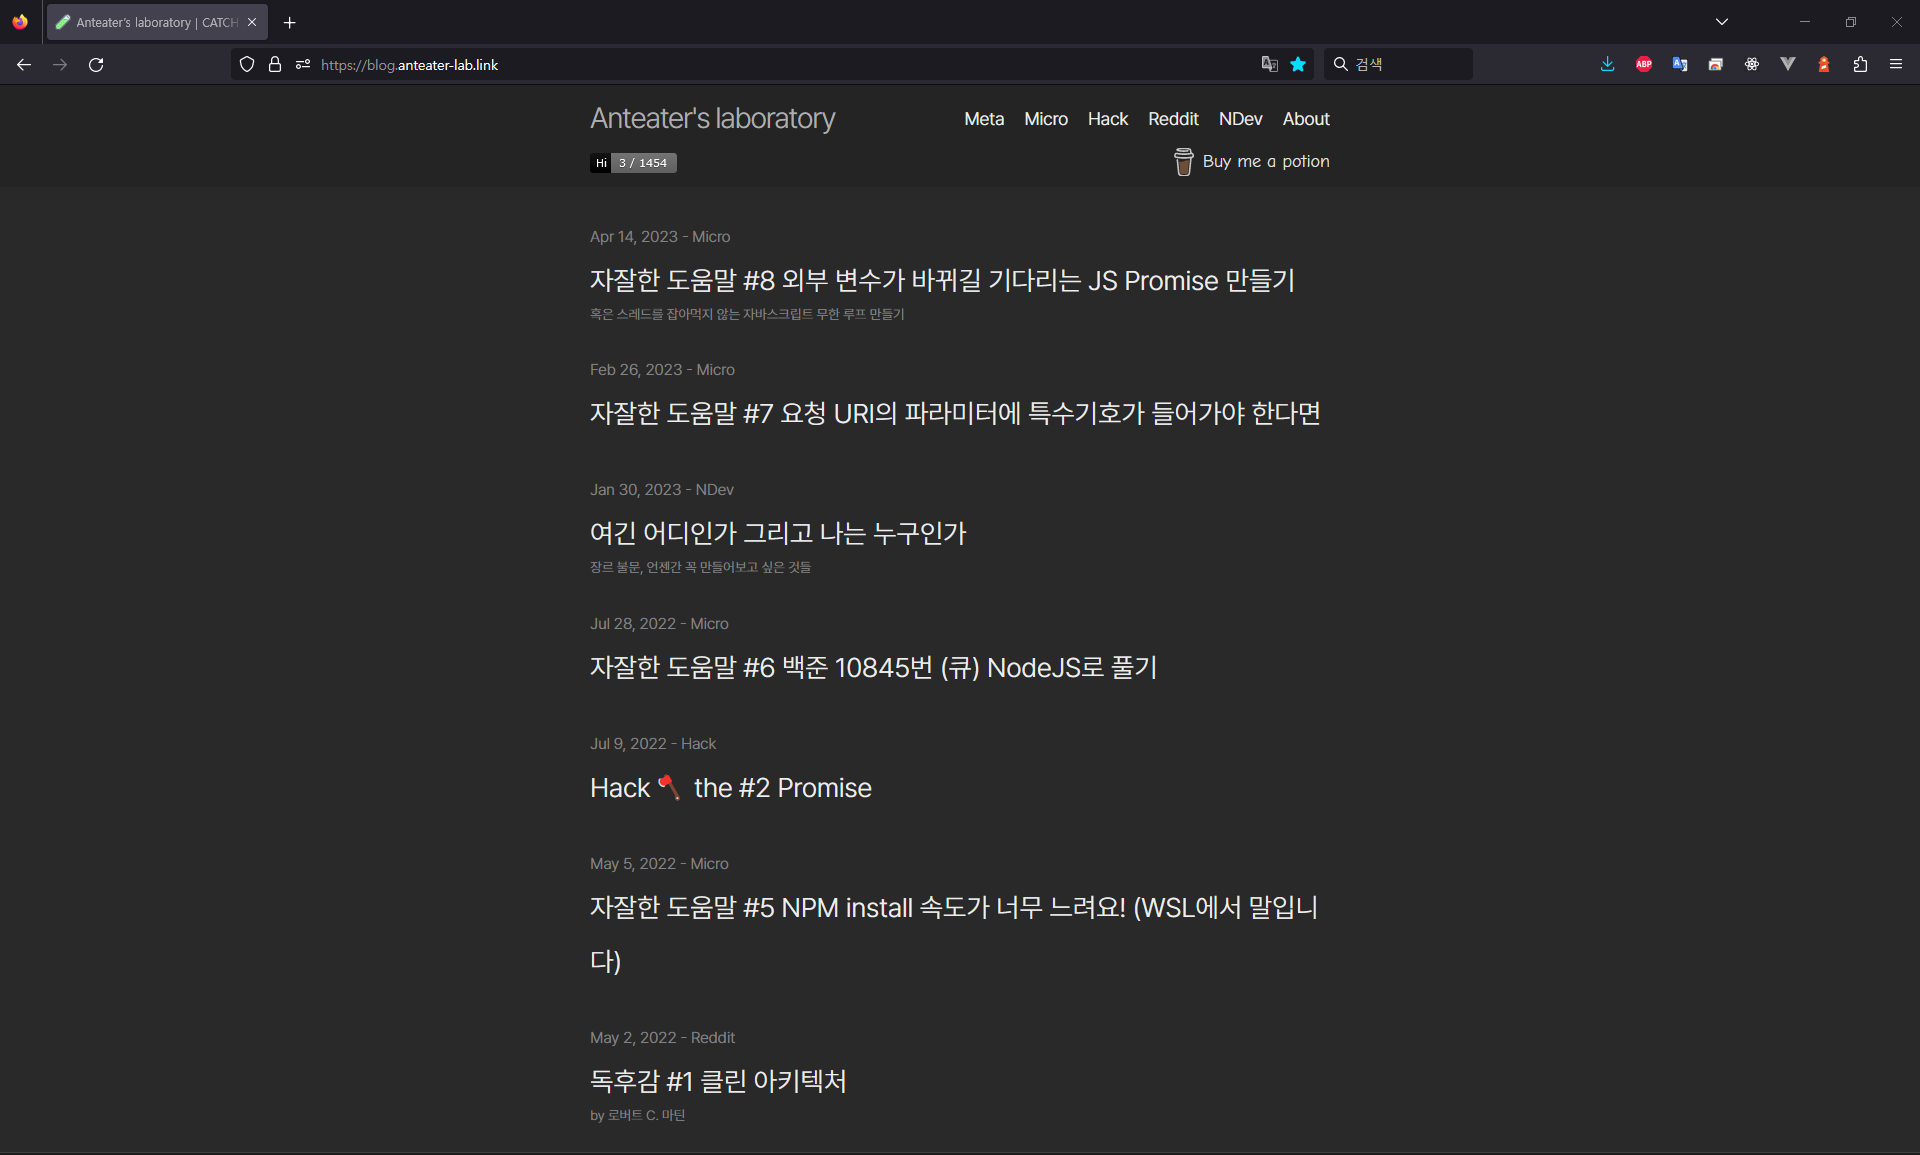
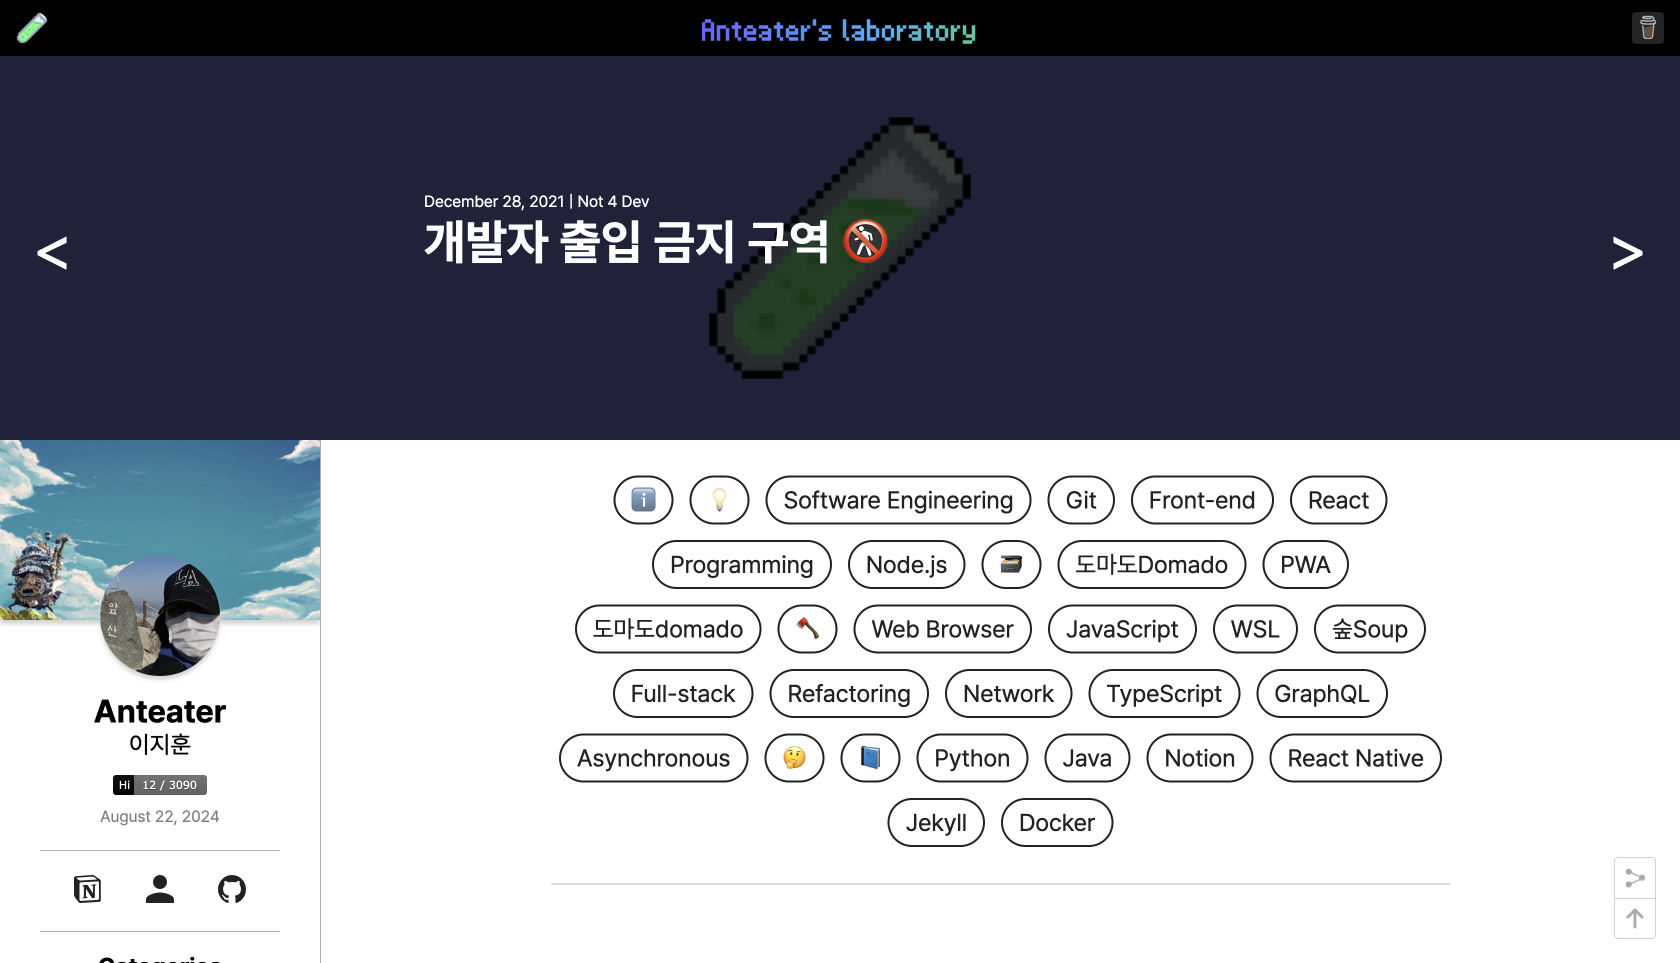
Data - 블로그 이전 관련 내용 추가

diff --git a/src/components/sections/WorksSection.tsx b/src/components/sections/WorksSection.tsx
@@ -59,6 +59,8 @@ import imgWorks02SS01 from "../../resources/images/works/screenshots/Ill01.png";
 import imgWorks03SS00 from "../../resources/images/works/screenshots/Lab00.png";
 import imgWorks03SS01 from "../../resources/images/works/screenshots/Lab01.png";
 import imgWorks03SS02 from "../../resources/images/works/screenshots/Lab02.png";
+import imgWorks03SS03 from "../../resources/images/works/screenshots/Lab03.png";
+import imgWorks03SS04 from "../../resources/images/works/screenshots/Lab04.png";
 import imgWorks04SS00 from "../../resources/images/works/screenshots/Monallog00.gif";
 import imgWorks05SS00 from "../../resources/images/works/screenshots/QUE00.png";
 import imgWorks05SS01 from "../../resources/images/works/screenshots/QUE01.png";
@@ -174,13 +176,19 @@ const worksArray: WorksItemType[] = [
   {
     workId: "Lab",
     url: "./3d/Lab.glb",
-    screenshots: [imgWorks03SS00, imgWorks03SS01, imgWorks03SS02],
+    screenshots: [
+      imgWorks03SS00,
+      imgWorks03SS01,
+      imgWorks03SS02,
+      imgWorks03SS03,
+      imgWorks03SS04,
+    ],
     logoImg: () => <></>,
     title: "Anteater's laboratory",
     smallTitle: true,
     description:
-      "Jekyll로 구축한 개인 기술 블로그입니다. 개발 중 사용했던 자잘한 해결책들, 독후감, 특정 용어에 대한 고찰, 프로젝트 회고 등 다양한 주제의 글을 작성하고 있습니다.",
-    year: "2021",
+      "개발 중 사용했던 자잘한 해결책들, 독후감, 특정 용어에 대한 고찰, 프로젝트 회고 등 다양한 주제의 글을 작성했습니다. 2021년 Jekyll을 기반으로 구축하였으며, 2024년 Next.js 프레임워크 기반으로 기술 스택을 이전, 블로그를 재구축했습니다.",
+    year: "2021, 2024",
     platform: "Web Service",
     summary: "기술 블로그",
     features: [
@@ -189,7 +197,15 @@ const worksArray: WorksItemType[] = [
       "Hack the terms🪓",
       "프로젝트 회고록 저장소🗃",
     ],
-    techStack: ["Jekyll", "Sass", "Vanilla JS", "Docker"],
+    techStack: [
+      "Next.js",
+      "React",
+      "Styled-components",
+      "Jekyll (2021)",
+      "Sass (2021)",
+      "Vanilla JS (2021)",
+      "Docker (2021)",
+    ],
     repoUrl: "https://github.com/anteater333/anteater333.github.io",
     site: "https://blog.anteater-lab.link/",
   },
@@ -698,7 +714,10 @@ function WorksSection({ updateLoadingProgress }: SectionProps) {
                 <div className="flex gap-4 xl:flex-col xl:gap-20">
                   <div className="mr-4 w-1/2 border-l-4 border-indigo-500 pl-4 xl:w-auto">
                     <h2 className="mb-2 text-xl font-bold xl:mb-4 xl:text-4xl">
-                      Features
+                      Features{" "}
+                      <span className="text-sm font-normal">
+                        ({selectedItem.features.length} items)
+                      </span>
                     </h2>
                     <ul className="works-spec-list h-40 max-w-lg list-disc overflow-scroll break-keep pl-8 text-lg xl:min-w-[16rem] xl:text-3xl [&>li]:mb-1 xl:[&>li]:mb-4">
                       {selectedItem.features.map((feat, idx) => (
@@ -708,7 +727,10 @@ function WorksSection({ updateLoadingProgress }: SectionProps) {
                   </div>
                   <div className="w-1/2 border-l-4 border-indigo-500 pl-4 xl:ml-0 xl:w-auto">
                     <h2 className="mb-2 text-xl font-bold xl:mb-4 xl:text-4xl">
-                      Tech Stack
+                      Tech Stack{" "}
+                      <span className="text-sm font-normal">
+                        ({selectedItem.techStack.length} items)
+                      </span>
                     </h2>
                     <ul className="works-spec-list h-40 max-w-lg list-disc overflow-scroll break-keep pl-8 text-lg xl:min-w-[16rem] xl:text-3xl [&>li]:mb-1 xl:[&>li]:mb-4">
                       {selectedItem.techStack.map((tech, idx) => (

diff --git a/src/components/sections/SkillsSection.tsx b/src/components/sections/SkillsSection.tsx
@@ -164,6 +164,7 @@ const skillsArray: {
       "데이터 시각화 라이브러리 ApexCharts.js 사용 경험 보유",
       "웹 성능 측정 도구 Lighthouse 사용 및 성능 개선 경험 보유",
       "URL 스키마 기반 웹 페이지의 클라이언트측 에이전트 프로그램 실행 기능 개발 경험 보유",
+      "Next.js 기반 블로그 구축 경험 보유",
     ],
   },
   {

diff --git a/src/components/PFooter.tsx b/src/components/PFooter.tsx
@@ -15,7 +15,7 @@ function PFooter() {
         All rights reserved.
       </div>
       <div>|</div>
-      <div>정보 갱신일 : {"2024-06-24"}</div>
+      <div>정보 갱신일 : {"2024-08-22"}</div>
       <div>|</div>
       <div>
         {import.meta.env.DEV ? (
